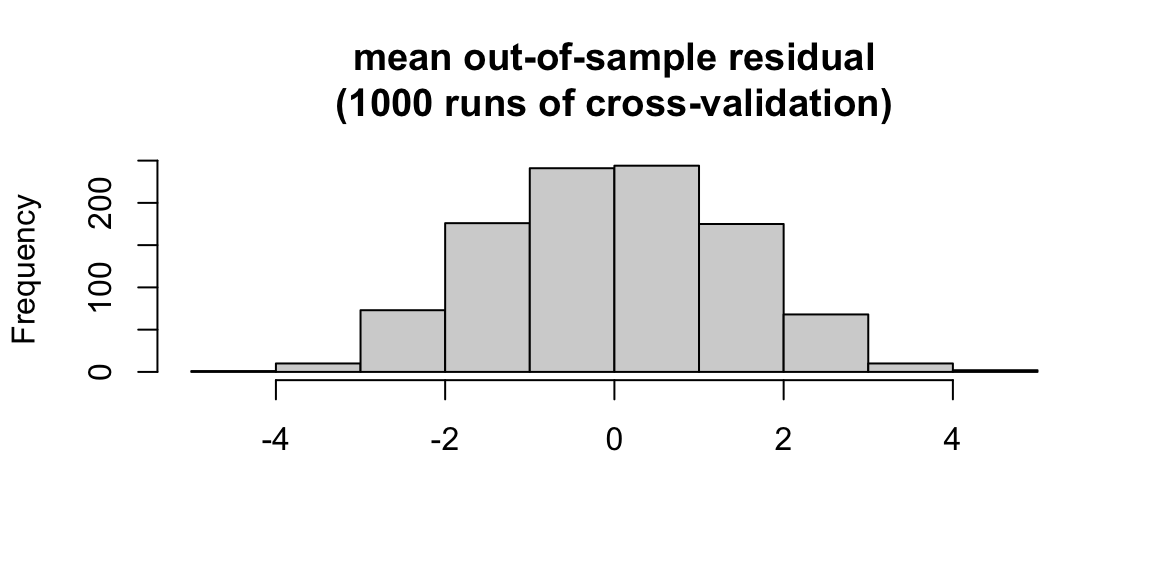
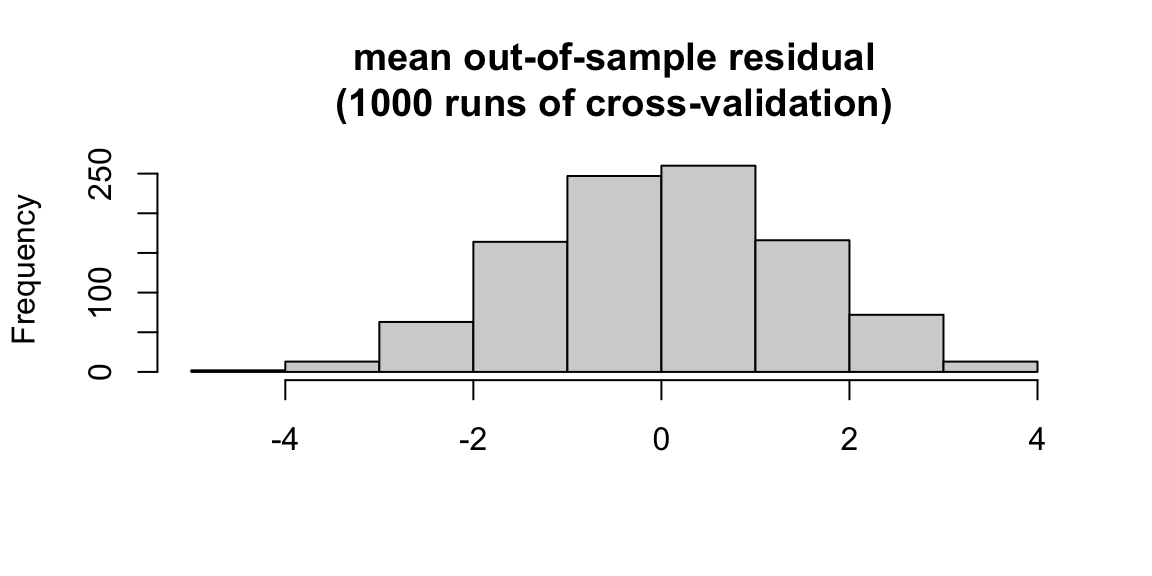
commit

diff --git a/public/post/economic-forces/index.html b/public/post/economic-forces/index.html
@@ -93,7 +93,7 @@
 <!-- raw HTML omitted -->
 <p>Below is the mean out-of-sample residuals, which validates our model:</p>
 <!-- raw HTML omitted -->
-<pre tabindex="0"><code>## [1] 1.156894
+<pre tabindex="0"><code>## [1] 1.139965
 </code></pre><p>Next, I examine the percent change in unemployment rate and how that correlates with the percentage of the votes that the incumbent party receives for each election year from 1964 to 2020.</p>
 <!-- raw HTML omitted -->
 <!-- raw HTML omitted -->
@@ -120,7 +120,7 @@
 </code></pre><!-- raw HTML omitted -->
 <p>Below is the mean out-of-sample residuals:</p>
 <!-- raw HTML omitted -->
-<pre tabindex="0"><code>## [1] 1.068016
+<pre tabindex="0"><code>## [1] 1.070344
 </code></pre>
 
 		
@@ -138,7 +138,7 @@
         		<footer>
 			
 			<span>
-			&copy; <time datetime="2022-12-16 22:17:52.355124 -0500 EST m=&#43;0.514557602">2022</time> . Made with <a href='https://gohugo.io'>Hugo</a> using the <a href='https://github.com/EmielH/tale-hugo/'>Tale</a> theme.
+			&copy; <time datetime="2022-12-16 22:23:26.696247 -0500 EST m=&#43;0.466338980">2022</time> . Made with <a href='https://gohugo.io'>Hugo</a> using the <a href='https://github.com/EmielH/tale-hugo/'>Tale</a> theme.
 			</span>
 		</footer>
 

diff --git a/public/index.html b/public/index.html
@@ -136,7 +136,7 @@ FiveThirtyEight utilizes three different versions of models: Lite, Classic, and 
         		<footer>
 			
 			<span>
-			&copy; <time datetime="2022-12-16 22:17:52.365551 -0500 EST m=&#43;0.524985052">2022</time> . Made with <a href='https://gohugo.io'>Hugo</a> using the <a href='https://github.com/EmielH/tale-hugo/'>Tale</a> theme.
+			&copy; <time datetime="2022-12-16 22:23:26.702076 -0500 EST m=&#43;0.472168000">2022</time> . Made with <a href='https://gohugo.io'>Hugo</a> using the <a href='https://github.com/EmielH/tale-hugo/'>Tale</a> theme.
 			</span>
 		</footer>
 

diff --git a/public/post/index.html b/public/post/index.html
@@ -131,7 +131,7 @@ FiveThirtyEight utilizes three different versions of models: Lite, Classic, and 
         		<footer>
 			
 			<span>
-			&copy; <time datetime="2022-12-16 22:17:52.367596 -0500 EST m=&#43;0.527029924">2022</time> . Made with <a href='https://gohugo.io'>Hugo</a> using the <a href='https://github.com/EmielH/tale-hugo/'>Tale</a> theme.
+			&copy; <time datetime="2022-12-16 22:23:26.70377 -0500 EST m=&#43;0.473862168">2022</time> . Made with <a href='https://gohugo.io'>Hugo</a> using the <a href='https://github.com/EmielH/tale-hugo/'>Tale</a> theme.
 			</span>
 		</footer>
 

diff --git a/public/post/incumbency/index.html b/public/post/incumbency/index.html
@@ -85,7 +85,7 @@ the expert predictions were in 2018. I do this by visualizing actual voteshare (
         		<footer>
 			
 			<span>
-			&copy; <time datetime="2022-12-16 22:17:52.329084 -0500 EST m=&#43;0.488517046">2022</time> . Made with <a href='https://gohugo.io'>Hugo</a> using the <a href='https://github.com/EmielH/tale-hugo/'>Tale</a> theme.
+			&copy; <time datetime="2022-12-16 22:23:26.662387 -0500 EST m=&#43;0.432478436">2022</time> . Made with <a href='https://gohugo.io'>Hugo</a> using the <a href='https://github.com/EmielH/tale-hugo/'>Tale</a> theme.
 			</span>
 		</footer>
 

diff --git a/public/post/introduction/index.html b/public/post/introduction/index.html
@@ -97,7 +97,7 @@ As determined by the key on the right, the GOP two-party vote share margin in Mi
         		<footer>
 			
 			<span>
-			&copy; <time datetime="2022-12-16 22:17:52.329063 -0500 EST m=&#43;0.488496336">2022</time> . Made with <a href='https://gohugo.io'>Hugo</a> using the <a href='https://github.com/EmielH/tale-hugo/'>Tale</a> theme.
+			&copy; <time datetime="2022-12-16 22:23:26.664157 -0500 EST m=&#43;0.434248669">2022</time> . Made with <a href='https://gohugo.io'>Hugo</a> using the <a href='https://github.com/EmielH/tale-hugo/'>Tale</a> theme.
 			</span>
 		</footer>
 

diff --git a/public/post/advertisements/index.html b/public/post/advertisements/index.html
@@ -243,7 +243,7 @@
         		<footer>
 			
 			<span>
-			&copy; <time datetime="2022-12-16 22:17:52.379085 -0500 EST m=&#43;0.538519347">2022</time> . Made with <a href='https://gohugo.io'>Hugo</a> using the <a href='https://github.com/EmielH/tale-hugo/'>Tale</a> theme.
+			&copy; <time datetime="2022-12-16 22:23:26.712944 -0500 EST m=&#43;0.483035958">2022</time> . Made with <a href='https://gohugo.io'>Hugo</a> using the <a href='https://github.com/EmielH/tale-hugo/'>Tale</a> theme.
 			</span>
 		</footer>
 

diff --git a/public/post/polling/index.html b/public/post/polling/index.html
@@ -101,7 +101,7 @@
         		<footer>
 			
 			<span>
-			&copy; <time datetime="2022-12-16 22:17:52.406264 -0500 EST m=&#43;0.565698669">2022</time> . Made with <a href='https://gohugo.io'>Hugo</a> using the <a href='https://github.com/EmielH/tale-hugo/'>Tale</a> theme.
+			&copy; <time datetime="2022-12-16 22:23:26.756739 -0500 EST m=&#43;0.526832154">2022</time> . Made with <a href='https://gohugo.io'>Hugo</a> using the <a href='https://github.com/EmielH/tale-hugo/'>Tale</a> theme.
 			</span>
 		</footer>
 

diff --git a/public/categories/index.html b/public/categories/index.html
@@ -57,7 +57,7 @@
         		<footer>
 			
 			<span>
-			&copy; <time datetime="2022-12-16 22:17:52.371316 -0500 EST m=&#43;0.530750445">2022</time> . Made with <a href='https://gohugo.io'>Hugo</a> using the <a href='https://github.com/EmielH/tale-hugo/'>Tale</a> theme.
+			&copy; <time datetime="2022-12-16 22:23:26.70766 -0500 EST m=&#43;0.477752698">2022</time> . Made with <a href='https://gohugo.io'>Hugo</a> using the <a href='https://github.com/EmielH/tale-hugo/'>Tale</a> theme.
 			</span>
 		</footer>
 

diff --git a/public/tags/index.html b/public/tags/index.html
@@ -57,7 +57,7 @@
         		<footer>
 			
 			<span>
-			&copy; <time datetime="2022-12-16 22:17:52.373694 -0500 EST m=&#43;0.533128032">2022</time> . Made with <a href='https://gohugo.io'>Hugo</a> using the <a href='https://github.com/EmielH/tale-hugo/'>Tale</a> theme.
+			&copy; <time datetime="2022-12-16 22:23:26.7113 -0500 EST m=&#43;0.481391737">2022</time> . Made with <a href='https://gohugo.io'>Hugo</a> using the <a href='https://github.com/EmielH/tale-hugo/'>Tale</a> theme.
 			</span>
 		</footer>
 

diff --git a/content/post/economic-forces/index.md b/content/post/economic-forces/index.md
@@ -72,7 +72,7 @@ Below is the mean out-of-sample residuals, which validates our model:
 <img src="{{< blogdown/postref >}}index_files/figure-html/unnamed-chunk-8-1.png" width="70%" style="display: block; margin: auto;" />
 
 ```
-## [1] 1.156894
+## [1] 1.139965
 ```
 
 Next, I examine the percent change in unemployment rate and how that correlates with the percentage of the votes that the incumbent party receives for each election year from 1964 to 2020.
@@ -124,5 +124,5 @@ Below is the mean out-of-sample residuals:
 <img src="{{< blogdown/postref >}}index_files/figure-html/unnamed-chunk-17-1.png" width="70%" style="display: block; margin: auto;" />
 
 ```
-## [1] 1.068016
+## [1] 1.070344
 ```
